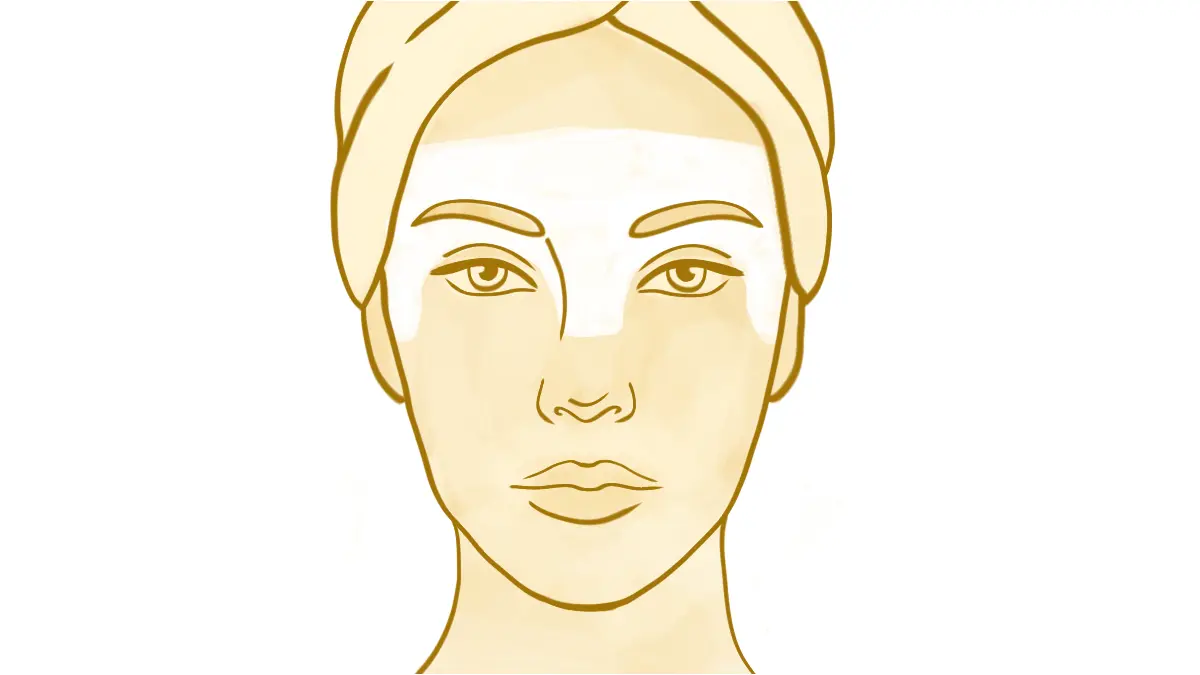
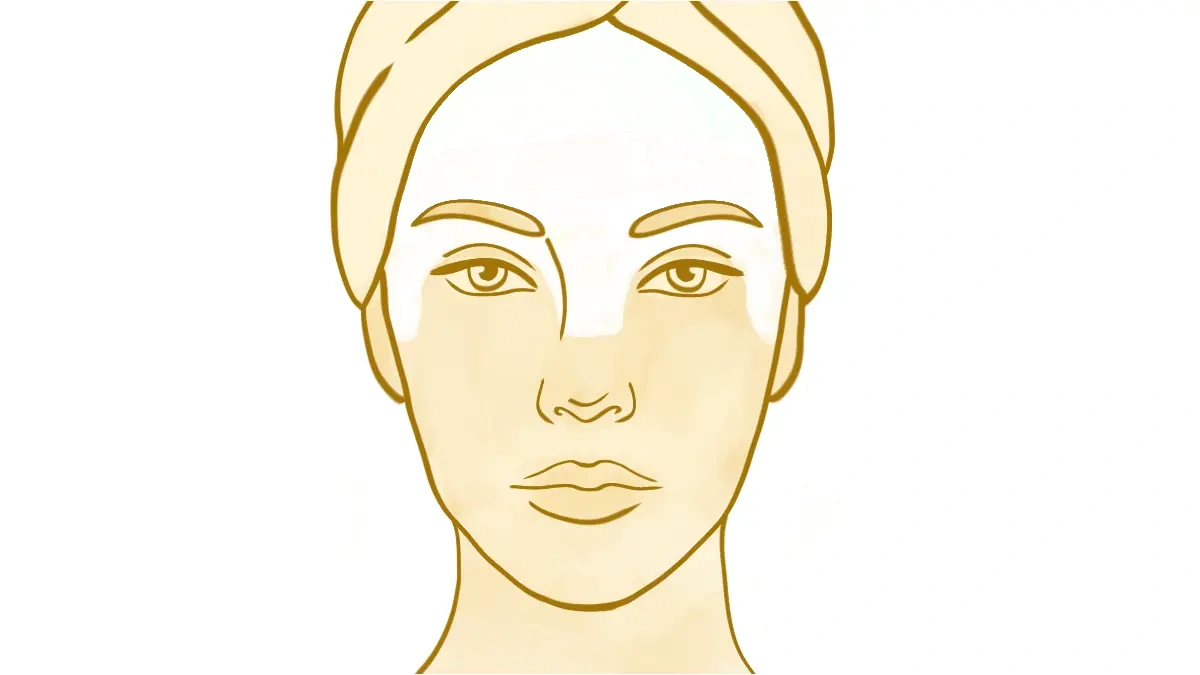
feat: add price list service images and update component layouts

Changed region(s): [[0.3392, 0.0311, 0.6475, 0.3111]]

diff --git a/src/components/ServicesData.jsx b/src/components/ServicesData.jsx
@@ -34,7 +34,7 @@ export const getServicesData = (t) => ({
                         { name: <T id="FACE_SERVICE_4_NAME" />, price: <T id="PRICE_FACE_4" />, duration: <T id="FACE_SERVICE_4_DURATION" />, desc: <T id="FACE_SERVICE_4_DESC" />, image: '/price-list/face/nostrils.webp' },
                         { name: <T id="FACE_SERVICE_6_NAME" />, price: <T id="PRICE_FACE_6" />, duration: <T id="FACE_SERVICE_6_DURATION" />, desc: <T id="FACE_SERVICE_6_DESC" />, image: '/price-list/face/sideburns.webp' },
                         { name: <T id="FACE_SERVICE_5_NAME" />, price: <T id="PRICE_FACE_5" />, duration: <T id="FACE_SERVICE_5_DURATION" />, desc: <T id="FACE_SERVICE_5_DESC" />, image: '/price-list/face/eyebrows.webp' },
-                        { name: <T id="FACE_SERVICE_10_NAME" />, price: <T id="PRICE_FACE_10" />, duration: <T id="FACE_SERVICE_10_DURATION" />, desc: <T id="FACE_SERVICE_10_DESC" />, image: null },
+                        { name: <T id="FACE_SERVICE_10_NAME" />, price: <T id="PRICE_FACE_10" />, duration: <T id="FACE_SERVICE_10_DURATION" />, desc: <T id="FACE_SERVICE_10_DESC" />, image: '/price-list/face/eyebrow-shape.webp' },
                     ]
                 },
                 {
@@ -79,8 +79,8 @@ export const getServicesData = (t) => ({
                         { name: <T id="UPPER_SERVICE_2_NAME" />, price: <T id="PRICE_ITEM_17" />, duration: <T id="UPPER_SERVICE_2_DURATION" />, desc: <T id="UPPER_SERVICE_2_DESC" />, image: '/price-list/upper-body/full arms.png' },
                         { name: <T id="UPPER_SERVICE_3_NAME" />, price: <T id="PRICE_ITEM_18" />, duration: <T id="UPPER_SERVICE_3_DURATION" />, desc: <T id="UPPER_SERVICE_3_DESC" />, image: '/price-list/upper-body/half arms.png' },
                         { name: <T id="UPPER_SERVICE_4_NAME" />, price: <T id="PRICE_ITEM_19" />, duration: <T id="UPPER_SERVICE_4_DURATION" />, desc: <T id="UPPER_SERVICE_4_DESC" />, image: '/price-list/upper-body/stomach.png' },
-                        { name: <T id="UPPER_SERVICE_5_NAME" />, price: <T id="PRICE_ITEM_36" />, duration: <T id="UPPER_SERVICE_5_DURATION" />, desc: <T id="UPPER_SERVICE_5_DESC" />, image: null },
-                        { name: <T id="UPPER_SERVICE_6_NAME" />, price: <T id="PRICE_ITEM_37" />, duration: <T id="UPPER_SERVICE_6_DURATION" />, desc: <T id="UPPER_SERVICE_6_DESC" />, image: null },
+                        { name: <T id="UPPER_SERVICE_5_NAME" />, price: <T id="PRICE_ITEM_36" />, duration: <T id="UPPER_SERVICE_5_DURATION" />, desc: <T id="UPPER_SERVICE_5_DESC" />, image: '/price-list/upper-body/chest.png' },
+                        { name: <T id="UPPER_SERVICE_6_NAME" />, price: <T id="PRICE_ITEM_37" />, duration: <T id="UPPER_SERVICE_6_DURATION" />, desc: <T id="UPPER_SERVICE_6_DESC" />, image: '/price-list/upper-body/chest-and-stomach.png' },
                     ]
                 },
             ]
@@ -101,7 +101,7 @@ export const getServicesData = (t) => ({
                         { name: <T id="DOWN_SERVICE_2_NAME" />, price: <T id="PRICE_ITEM_23" />, duration: <T id="DOWN_SERVICE_2_DURATION" />, desc: <T id="DOWN_SERVICE_2_DESC" />, image: '/price-list/lower-body/half legs.png' },
                         { name: <T id="DOWN_SERVICE_3_NAME" />, price: <T id="PRICE_ITEM_24" />, duration: <T id="DOWN_SERVICE_3_DURATION" />, desc: <T id="DOWN_SERVICE_3_DESC" />, image: '/price-list/lower-body/buttocks.png' },
                         { name: <T id="DOWN_SERVICE_4_NAME" />, price: <T id="PRICE_ITEM_25" />, duration: <T id="DOWN_SERVICE_4_DURATION" />, desc: <T id="DOWN_SERVICE_4_DESC" />, image: '/price-list/lower-body/lower back.png' },
-                        { name: <T id="DOWN_SERVICE_6_NAME" />, price: <T id="PRICE_ITEM_35" />, duration: <T id="DOWN_SERVICE_6_DURATION" />, desc: <T id="DOWN_SERVICE_6_DESC" />, image: null },
+                        { name: <T id="DOWN_SERVICE_6_NAME" />, price: <T id="PRICE_ITEM_35" />, duration: <T id="DOWN_SERVICE_6_DURATION" />, desc: <T id="DOWN_SERVICE_6_DESC" />, image: '/price-list/lower-body/full-back.png' },
                         { name: <T id="DOWN_SERVICE_5_NAME" />, price: <T id="PRICE_ITEM_26" />, badge: <T id="DOWN_SERVICE_5_BADGE" />, duration: <T id="DOWN_SERVICE_5_DURATION" />, desc: <T id="DOWN_SERVICE_5_DESC" />, image: '/price-list/lower-body/lower back and buttocks.png' },
                     ]
                 },
@@ -121,10 +121,10 @@ export const getServicesData = (t) => ({
                     isPackages: true,
                     note: <T id="BODY_PACKAGE_NOTE" />,
                     items: [
-                        { name: <T id="BODY_PACKAGE_1_NAME" />, price: <T id="PRICE_BODY_PKG_1" />, duration: <T id="BODY_PACKAGE_1_DURATION" />, saveText: <T id="BODY_PACKAGE_1_SAVE" />, image: null },
-                        { name: <T id="BODY_PACKAGE_2_NAME" />, price: <T id="PRICE_BODY_PKG_2" />, duration: <T id="BODY_PACKAGE_2_DURATION" />, saveText: <T id="BODY_PACKAGE_2_SAVE" />, image: null },
-                        { name: <T id="BODY_PACKAGE_3_NAME" />, price: <T id="PRICE_BODY_PKG_3" />, duration: <T id="BODY_PACKAGE_3_DURATION" />, saveText: <T id="BODY_PACKAGE_3_SAVE" />, image: null },
-                        { name: <T id="BODY_PACKAGE_4_NAME" />, price: <T id="PRICE_BODY_PKG_4" />, duration: <T id="BODY_PACKAGE_4_DURATION" />, saveText: <T id="BODY_PACKAGE_4_SAVE" />, image: null },
+                        { name: <T id="BODY_PACKAGE_1_NAME" />, price: <T id="PRICE_BODY_PKG_1" />, duration: <T id="BODY_PACKAGE_1_DURATION" />, saveText: <T id="BODY_PACKAGE_1_SAVE" />, image: '/price-list/body/full-legs-and-bum.png' },
+                        { name: <T id="BODY_PACKAGE_2_NAME" />, price: <T id="PRICE_BODY_PKG_2" />, duration: <T id="BODY_PACKAGE_2_DURATION" />, saveText: <T id="BODY_PACKAGE_2_SAVE" />, image: '/price-list/body/full-legs-bum-and-lower-back.png' },
+                        { name: <T id="BODY_PACKAGE_3_NAME" />, price: <T id="PRICE_BODY_PKG_3" />, duration: <T id="BODY_PACKAGE_3_DURATION" />, saveText: <T id="BODY_PACKAGE_3_SAVE" />, image: '/price-list/body/full-arms-and-underarms.png' },
+                        { name: <T id="BODY_PACKAGE_4_NAME" />, price: <T id="PRICE_BODY_PKG_4" />, duration: <T id="BODY_PACKAGE_4_DURATION" />, saveText: <T id="BODY_PACKAGE_4_SAVE" />, image: '/price-list/body/full-legs-and-full-arms.png' },
                     ]
                 }
             ]

diff --git a/src/components/BeautySpaceSection.jsx b/src/components/BeautySpaceSection.jsx
@@ -32,8 +32,28 @@ export default function BeautySpaceSection() {
                         >
                             <p className="text-xs tracking-[0.3em] uppercase text-primary font-medium mb-4"><T id="SPACE_EYEBROW" /></p>
                             <h2 className="font-display font-semibold text-foreground mb-5 leading-tight text-2xl md:text-4xl lg:text-5xl leading-[1.15]"><T id="SPACE_HEADING" /></h2>
-                            <p className="font-body text-muted-foreground mb-6 text-[13px] md:text-sm lg:text-[15px] leading-[1.65]"><T id="SPACE_PARAGRAPH_1" /></p>
-                            <p className="font-body text-muted-foreground mb-8 text-[13px] md:text-sm lg:text-[15px] leading-[1.65]"><T id="BEAUTY_SPACE_PARAGRAPH_2" /></p>
+                            <p className="font-body mb-6 text-[15px] md:text-base leading-[1.65]">
+                                <T 
+                                    id="SPACE_PARAGRAPH_1" 
+                                    render={(text) => {
+                                        const dotIdx = text.indexOf('.');
+                                        if (dotIdx === -1) {
+                                            return <strong className="font-bold text-[#B38B4D]">{text}</strong>;
+                                        }
+                                        const lead = text.slice(0, dotIdx + 1);
+                                        const body = text.slice(dotIdx + 1);
+                                        return (
+                                            <>
+                                                <strong className="font-bold text-[#B38B4D]">{lead}</strong>
+                                                <span className="text-muted-foreground">{body}</span>
+                                            </>
+                                        );
+                                    }} 
+                                />
+                            </p>
+                            {getText(<T id="BEAUTY_SPACE_PARAGRAPH_2" />) ? (
+                                <p className="font-body text-muted-foreground mb-8 text-[13px] md:text-sm lg:text-[15px] leading-[1.65]"><T id="BEAUTY_SPACE_PARAGRAPH_2" /></p>
+                            ) : null}
                         </motion.div>
 
                         {/* Highlights list */}

diff --git a/src/components/AboutSection.jsx b/src/components/AboutSection.jsx
@@ -35,7 +35,7 @@ export default function AboutSection() {
     const { t } = useContent();
     
     return (
-        <section id="about" className="pt-10 md:pt-16 lg:pt-24 bg-[#FAF8F3]">
+        <section id="about" className="pt-4 md:pt-14 lg:pt-24 bg-[#FAF8F3]">
             <div className="max-w-3xl mx-auto px-6 lg:px-10">
                 
                 {/* Heading */}
@@ -118,6 +118,17 @@ export default function AboutSection() {
                     <p><T id="NEW_ABOUT_P5" /></p>
                     
                     <p><T id="NEW_ABOUT_P6" /></p>
+
+                    <div className="flex items-center justify-end mt-6 md:mt-8">
+                        <div className="text-right">
+                            <p className="font-display italic text-base md:text-lg text-[#B38B4D] leading-none mb-1">
+                                <T id="NEW_ABOUT_SIGN_1" />
+                            </p>
+                            <p className="font-script text-5xl md:text-6xl gold-text-strong leading-[1.1] pr-1">
+                                <T id="NEW_ABOUT_SIGN_2" />
+                            </p>
+                        </div>
+                    </div>
                 </motion.div>
             </div>
 
@@ -150,17 +161,6 @@ export default function AboutSection() {
                                     </p>
                                 </div>
                             ))}
-                        </div>
-
-                        <div className="flex items-center justify-end gap-4 md:gap-5 mt-10 md:mt-12 pt-6 border-t border-background/15">
-                            <div className="text-right">
-                                <p className="font-display italic text-base md:text-lg text-[#D8B878] leading-none mb-1">
-                                    <T id="NEW_ABOUT_SIGN_1" />
-                                </p>
-                                <p className="font-script text-5xl md:text-6xl gold-text-light leading-[1.1] pr-1">
-                                    <T id="NEW_ABOUT_SIGN_2" />
-                                </p>
-                            </div>
                         </div>
                     </motion.div>
                 </div>

diff --git a/src/components/HeroSection.jsx b/src/components/HeroSection.jsx
@@ -121,7 +121,7 @@ export default function HeroSection() {
 
 
             <div className="relative z-10 max-w-7xl mx-auto px-6 lg:px-10 w-full">
-                <div className="grid lg:grid-cols-2 gap-12 lg:gap-20 items-center min-h-screen pt-28 pb-20">
+                <div className="grid lg:grid-cols-2 gap-12 lg:gap-20 items-center min-h-screen pt-28 pb-6 lg:pb-20">
                     {/* Left — Text */}
                     <motion.div
                         initial={{ opacity: 0, y: 30 }}
